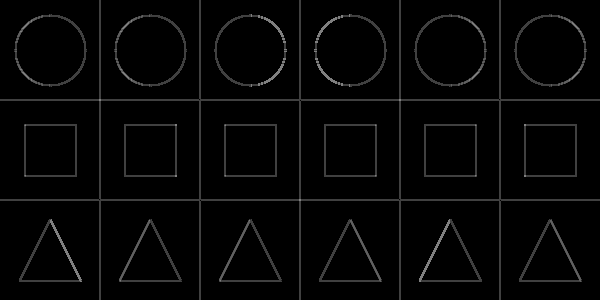
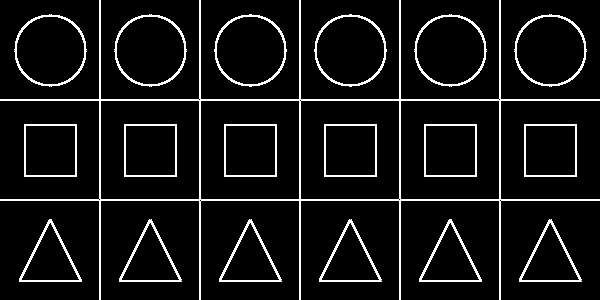
Fixed gradient calculating for lab5

diff --git a/gruzintsev_a_s/lab5_test/lab5_test.cpp b/gruzintsev_a_s/lab5_test/lab5_test.cpp
@@ -163,11 +163,11 @@ int main() {
     derivativeRight.copyTo(allDerivatives(Rect(0, image.rows, image.cols, image.rows)));
     derivativeDown.copyTo(allDerivatives(Rect(image.cols, image.rows, image.cols, image.rows)));
 
-    Mat absoluteGradient = (derivativeUp + derivativeDown + derivativeLeft + derivativeRight) / 4;
+    Mat absoluteGradient = (derivativeUp + derivativeDown + derivativeLeft + derivativeRight);
     Mat result = convert(merge(derivativeUp, derivativeRight, absoluteGradient), CV_HSV2BGR);
 
     imshow("Derivatives", allDerivatives);
-    imshow("Gradient", absoluteGradient);
+    imshow("Absolute gradient", absoluteGradient);
     imshow("Result", result);
 
     waitKey(0);
